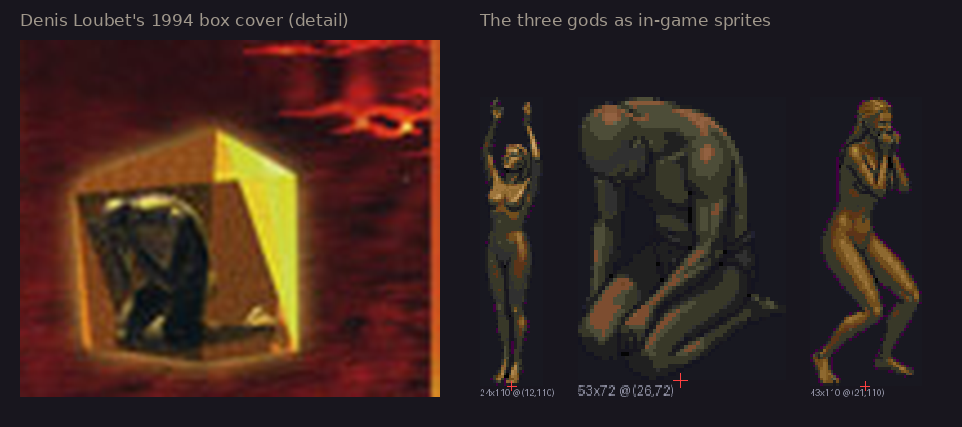
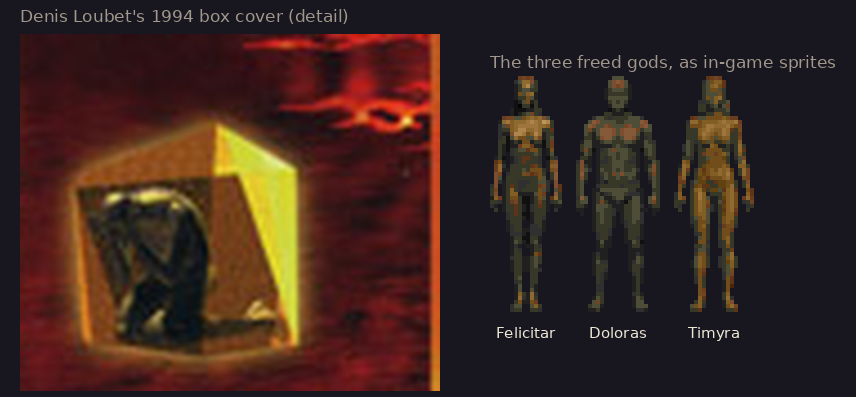
Second review fixes: images from the shipped build, honest captions, retail plates removed
- README images: the 1994 screenshots beside fresh captures of the published
  build (captions measured from each capture), one pair per image; sprites and
  the box comparison rendered from the shipped U8SHAPES.FLX; animations rebuilt
  from the game's own walk renders.
- README prose: which art is new and which is retail or 1994 pixels, the
  palette-class metric named, the quest claim scoped to the 18 October build.
- Removed 48 art-poc comparison plates that held unmodified retail sprites.
- play.sh launches the separate copy with its own config and saves.
- CREDITS: the Andrew attribution scoped to the schedule.
- Stale counts in cleanroom_test.sh and tools/scummvm-patches/README.md.

diff --git a/README.md b/README.md
@@ -11,41 +11,58 @@ This is a hobby project I started in March 2026, mainly as an excuse to learn an
 experiment with Claude Code. I wanted a large, messy, real problem to test AI coding
 agents against, and I had always wondered whether the Lost Vale could be
 reconstructed from the surviving screenshots and usecode. It runs in ScummVM against
-your own copy of Ultima 8, and the full quest can be played start to finish.
+your own copy of Ultima 8.
 
 It is very much a hobbyist experiment, so please take it in that spirit.
 
-> **Preview release.** The 18-step quest plays end to end. The maps are a work in
-> progress: they are playable, but outside the areas the 1994 screenshots show they
-> still read as machine-generated. Nobody outside the project has tried the install
-> steps yet, so bug reports are welcome.
+> **Preview release.** The 18-step quest was played end to end on the 18 October
+> build. The maps are a work in progress: they are playable, but outside the areas
+> the 1994 screenshots show they still read as machine-generated. Nobody outside the
+> project has tried the install steps yet, so bug reports are welcome.
 
 ## The 1994 screenshots, rebuilt
 
-The 19 surviving screenshots are the only parts of the Lost Vale whose look is
-actually known, so each one was rebuilt in place: every object identified, given world
-coordinates, and placed in the maps. Captured in the running game, the rebuilt scenes
-match the originals on 84% to 98% of their pixels, and 16 of the 19 reach 89% or
-better (`docs/research/2026-10-16-screenshot-reconstruction/`).
+The 19 surviving screenshots are the only parts of the Lost Vale whose look is known,
+so each one was rebuilt in place: every object identified, given world coordinates,
+and placed in the maps. Where Ultima 8 has no matching art, the art was cut from the
+screenshot itself. Captured in the running game on the 30 October build and compared
+by palette class, the rebuilt scenes match the originals on 84% to 98% of their
+pixels, and 16 of the 19 reach 89% or better
+(`docs/research/2026-10-16-screenshot-reconstruction/ingame/SCORES-2026-10-30.md`).
+The pictures on this page are fresh captures of the published build.
 
-![Four more 1994 screenshots beside their rebuilt in-game versions: Cloud City, the Elemental Dungeon, the Ancient Temple, and a village in the Vale](docs/images/screens-1994-vs-2026.png)
+![The 1994 Cloud City screenshot beside the rebuilt scene in ScummVM](docs/images/pair-screen11.png)
+
+![The 1994 Elemental Dungeon screenshot beside the rebuilt scene in ScummVM](docs/images/pair-screen07.png)
+
+![The 1994 Ancient Temple screenshot beside the rebuilt scene in ScummVM](docs/images/pair-screen04.png)
+
+![The 1994 screenshot of a village in the Vale beside the rebuilt scene in ScummVM](docs/images/pair-screen19.png)
+
+The four elemental pillars in the Elemental Dungeon are the 1994 Pillar of Fire and
+three recolours of it:
+
+![The elemental pillars in the Elemental Dungeon, running in ScummVM](docs/images/elemental-pillars.png)
 
 ## New art
 
-Ultima 8 had no sprites for much of what the expansion needed. The gods, the new
-monsters, and the Tiny Tar body are new; the elder and the spear-carrying children
-were redrawn from the figures in the 1994 screenshots.
+Ultima 8 had no sprites for much of what the expansion needed. The Harpie and the
+freed gods are new drawings. The Water Zombie is the retail ghoul recoloured to match
+the 1994 screenshots, the Tiny Tar body is the Avatar scaled down by the build, and
+the elder and the spear-carrying children are retail figures restyled to match the
+1994 screenshots. The sealed gods, the elemental pillars, and the Cloud City floor
+and columns are pixels cut from the screenshots themselves.
 
-![The three Zealan gods, encased and freed, the Water Zombie, and the Harpie, as sprites read back from the built game files](docs/images/new-art.png)
+![The three Zealan gods sealed in amber (the 1994 pixels) and freed (new drawings), the Water Zombie, and the Harpie, as sprites read from the built game files](docs/images/new-art.png)
 
 <p align="center">
-  <img src="docs/images/anim-water-zombie-walk.gif" height="160" alt="The Water Zombie walking">
+  <img src="docs/images/anim-water-zombie-walk.gif" height="200" alt="The Water Zombie walking">
   &nbsp;&nbsp;
-  <img src="docs/images/anim-tiny-tar-shrink.gif" height="160" alt="The Avatar shrinking after drinking Tiny Tar">
+  <img src="docs/images/anim-tiny-tar-shrink.gif" height="200" alt="The Avatar shrinking after drinking Tiny Tar">
   &nbsp;&nbsp;
-  <img src="docs/images/anim-elder-walk.gif" height="160" alt="The village elder walking with his cane">
+  <img src="docs/images/anim-elder-walk.gif" height="200" alt="The village elder walking with his cane">
   &nbsp;&nbsp;
-  <img src="docs/images/anim-child-walk.gif" height="160" alt="A Zealan child walking with a spear">
+  <img src="docs/images/anim-child-walk.gif" height="200" alt="A Zealan child walking with a spear">
   <br>
   <em>The Water Zombie, the Tiny Tar shrink, the village elder, and a Zealan child, in motion.</em>
 </p>
@@ -55,27 +72,27 @@ slip through cracks the full-size Avatar cannot:
 
 ![The Avatar before and after drinking Tiny Tar](docs/images/tiny-tar.png)
 
-The box cover shows the three imprisoned gods, and the statues in the Inner Sanctum
-were modeled on it:
+The box cover shows a god sealed in amber. The freed figures that step out of the
+amber in the Ancient Temple were modeled on it, and the sealed statues are the ones in
+the 1994 screenshot:
 
-![A detail of Denis Loubet's 1994 box cover beside the three god statues as in-game sprites](docs/images/box-cover-vs-gods.png)
+![A detail of Denis Loubet's 1994 box cover showing one of the three gods, beside the three freed gods as in-game sprites](docs/images/box-cover-vs-gods.png)
 
-Some of the new art came from GPT and Google image models: the three god statues, the
-Harpie, the obelisk, and a few props. The models were shown retail Ultima 8 sprites,
-the 1994 screenshots, and the box cover as references, and the build scripts reduced
-the results to Ultima 8's palette and sprite format. `shared/docs/art-poc/` records
-every prompt and every pick. A real artist replacing any of it would be welcome.
-
-![The elemental pillars in the Elemental Dungeon, redrawn in the style of the 1994 screenshot](docs/images/elemental-pillars.png)
+Some of the new art came from GPT and Google image models: the freed god figures, the
+Harpie, the Sacred Rock, the Message Scroll, and a few plants and props. The models
+were shown retail Ultima 8 sprites, the 1994 screenshots, and the box cover as
+references, and the build scripts reduced the results to Ultima 8's palette and
+sprite format. `shared/docs/art-poc/` and `tools/art/gen_*.sh` record the prompts and
+the picks. A real artist replacing any of it would be welcome.
 
 ## What survived, and what this project adds
 
 The sources:
 
-- Three revisions of the plot and design documents, released through the Origin
-  Museum and the Ultima Codex.
+- The plot and design documents (several revisions, a synopsis, and a walkthrough),
+  released through the Origin Museum and the Ultima Codex.
 - A snapshot of 1994 usecode from Sheri Graner Ray's work diskette, recovered by
-  Dominus Dragon and posted to the Ultima Dragons Discord in January 2025. Armitage's
+  Dominus Dragon and posted to the Ultima Dragons Discord in early 2025. Armitage's
   February 2025 analysis of it was this project's starting point.
 - The 19 development screenshots, published on Dino's Guide to Ultima VIII.
 - Developer interviews, and the 1994 production schedule.
@@ -83,24 +100,26 @@ The sources:
 
 What this repository adds:
 
-- **A usecode compiler** that turns 1994 `.UNK` source into Ultima 8 bytecode, with a
+- A usecode compiler that turns 1994 `.UNK` source into Ultima 8 bytecode, with a
   disassembler, assembler, and round-trip validation against the retail game.
-- **39 usecode source files:** 17 recovered 1994 files with documented repairs
+- 39 usecode source files: 17 recovered 1994 files with documented repairs
   (`agents/usecode-compiler/src/lv-patched/`), and 22 new classes for the parts of
   the plot whose code was never recovered (`lv-new/`). The build compiles 53 in all;
   the rest come from your copy of the recovered archive.
-- **Six new maps** (the Vale, Galjeron's Chamber, the Elemental Dungeon, the Cloud
-  Cliffs, Cloud City, and the Ancient Temple) and changes to the Plateau and
-  Tenebrae, built by scripts from the design documents and the 1994 screenshots.
-- **A ScummVM engine patch** (`tools/scummvm-patches/`, 27 files) that adds the
-  intrinsics and dialogue routing the recovered code needs, movement and NPC
-  behavior fixes, debugger commands, and a larger archive entry limit.
+- Six new maps (the Vale, Galjeron's Chamber, the Elemental Dungeon, the Cloud Cliffs,
+  Cloud City, and the Ancient Temple) and changes to the Plateau and Tenebrae, built
+  by scripts from the design documents and the 1994 screenshots.
+- A ScummVM engine patch (`tools/scummvm-patches/`, 27 files) that adds the
+  intrinsics and dialogue routing the recovered code needs, movement and NPC behavior
+  fixes, a MIDI player change, debugger commands, and a larger archive entry limit.
   `build_scummvm.sh` adds the game's detection entry.
 
-The 18-step main quest, from Lord British's vision to the Bag of Reagents, has been
-completed with cheats off as one continuous save chain on two pinned builds in
-October 2026 (`docs/playtest-2026-10-10-full-run-1-18.md` and the replay legs from
-17 October). Development and testing happen on macOS and Linux. Windows is untested.
+The 18-step main quest, from Lord British's vision to the Bag of Reagents, was
+completed twice in October 2026 with cheats off, each time from a new game on one
+pinned build (`docs/playtest-2026-10-11-replay-leg1.md` to `leg5`, and
+`docs/playtest-2026-10-17-replay-leg1.md` to `leg6`). The maps have changed since,
+and the published build has not had a full replay yet. Development and testing
+happen on macOS and Linux. Windows is untested.
 
 ## What you need
 
@@ -139,8 +158,11 @@ tools/build_artifacts.sh
 # 3. Build ScummVM with the Lost Vale patch (first time, and after engine changes).
 ./build_scummvm.sh
 
-# 4. Install and launch. Run this again whenever you want to play.
+# 4. Install and launch.
 ./install_lv.sh --run
+
+# Later, to play again without reinstalling:
+./play.sh
 ```
 
 Step 4 installs into a separate copy of your game, `shared/u8-lv-patched/`, and
@@ -157,18 +179,16 @@ path is untested.
 ## How it was made
 
 Nearly all the code was written by Claude Code and OpenAI Codex, with me steering,
-reviewing, and playtesting. The project ran on one rule: nothing counts as done until
-it has been exercised in ScummVM and the result written down, because the worst bugs
-along the way were invisible to every static check and obvious after one click in the
-game.
+reviewing, and playtesting. I held to one rule: nothing counts as done until it has
+been exercised in ScummVM and written down, because the worst bugs along the way were
+invisible to every static check and plain after one click in the game.
 
 The written development record is in the repository:
 
 - `PLAN.md` for the roadmap and its decisions, and `TODO.md` for live status.
 - `agents/*/docs/` for each workstream's design notes and devlog.
 - `docs/` for research notes, reviews, and dated playtest reports. The screenshots the
-  reports refer to are kept out of this repository for size, so most of their image
-  links are broken.
+  reports refer to are kept out of this repository for size.
 - `HANDOFF.md` for the session-to-session baton, and `CLAUDE.md` and `.claude/` for
   the instructions the agents worked under.
 
@@ -184,7 +204,8 @@ The written development record is in the repository:
 - `docs/images/` the pictures on this page
 
 `tools/run_all_tests.sh` runs the whole test suite (58 test files), and
-`tools/cleanroom_test.sh` rebuilds everything from a fresh clone.
+`tools/cleanroom_test.sh` rebuilds everything from a fresh clone against game data
+you already have in place.
 
 ## Legal
 

diff --git a/CREDITS.md b/CREDITS.md
@@ -4,8 +4,9 @@
 
 *The Lost Vale* was designed and built at Origin Systems in 1994. Brian Martin and
 Sheri Graner Ray were its designers, Brian on the maps and Sheri on the
-conversations. Lisa Smith wrote the Thordis, Hrodny, and Ingyald conversations, and
-Andrew wrote the usecode for Lord British, Mythran, and the closing scene. Sheri's
+conversations. Lisa Smith wrote the Thordis, Hrodny, and Ingyald conversations. The 1994 schedule
+assigns the usecode for Lord British, Mythran, and the closing scene to Andrew; the
+Lord British scene is the part that survived. Sheri's
 recollections name Rob Corell, John Watson, Jason E., Micael P., and Steve P. on the
 team, with Warren Spector overseeing. Every recovered line of their code is used as
 evidence first and changed only where it had to be.

diff --git a/tools/scummvm-patches/README.md b/tools/scummvm-patches/README.md
@@ -31,7 +31,7 @@ touched the same lines, then update both `BASE_SHA` and the SHA above.
 
 ## What `0001-lost-vale-engine.patch` contains
 
-Three files, +78 lines, no deletions. Detection-table entries are **not**
+27 files under `engines/ultima/ultima8/`. Detection-table entries are **not**
 included here — `build_scummvm.sh` regenerates those itself (md5 + size change
 every build).
 
